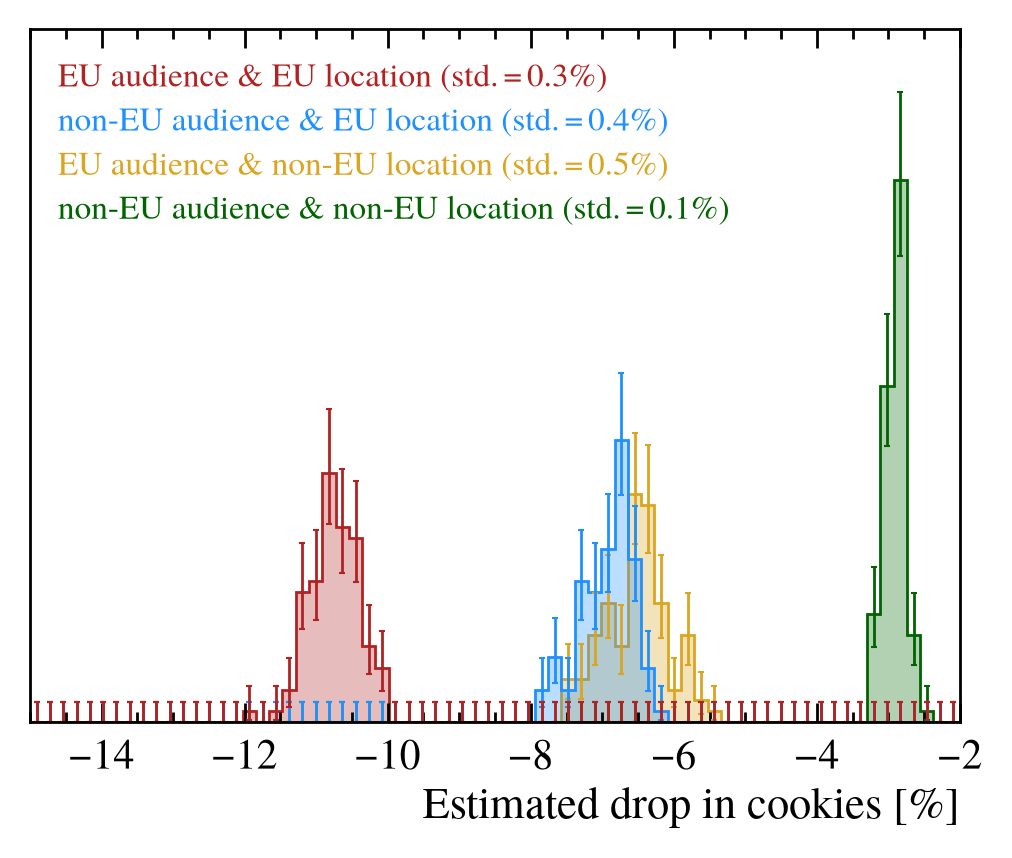
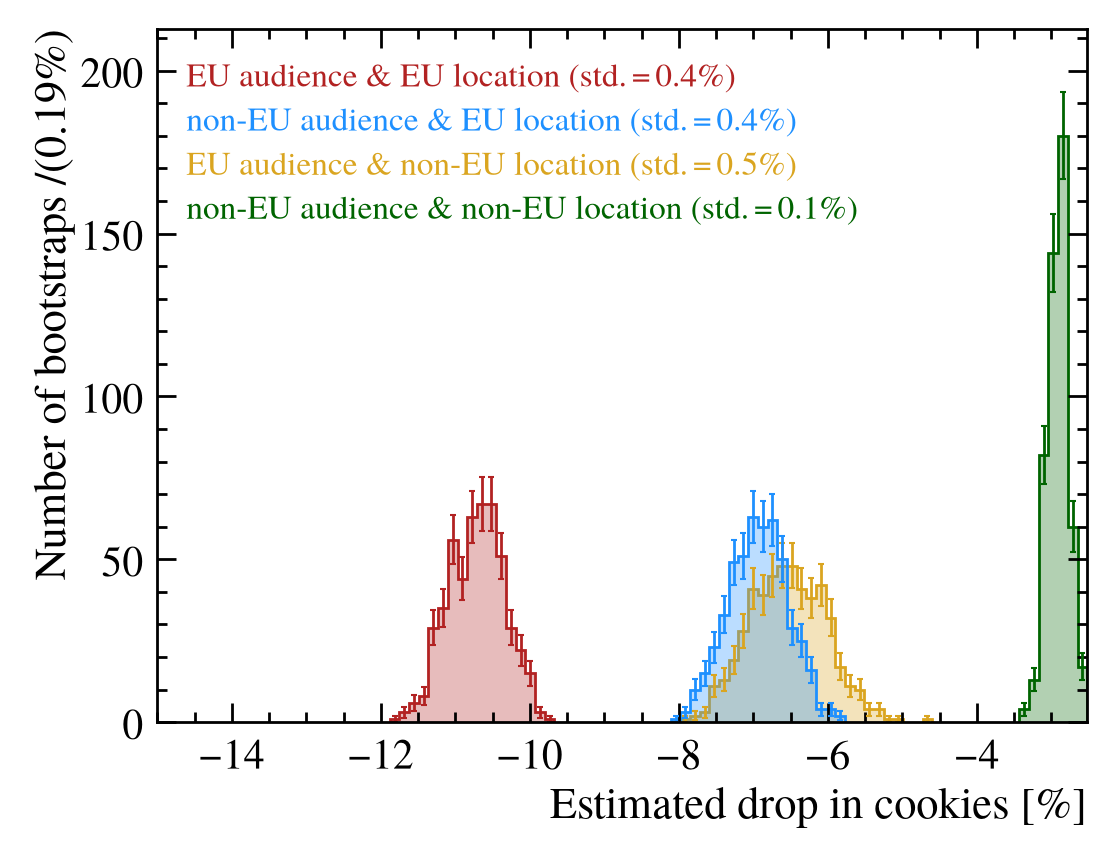
first commit

Changed region(s): [[0.0306, 0.0303, 0.9802, 0.9697], [0.8577, 0.0303, 0.8883, 0.0606], [0.7352, 0.0303, 0.7658, 0.0606]]

diff --git a/README.md b/README.md
@@ -14,15 +14,15 @@ It started from the code published [in this accompanying repository](plots_reque
 
 ## Background
 The General Data Protection Regulation (GDPR) is an EU legal framework protecting consumers from excessive data collection. It went into effect on May 25th 2018. It impacts in particular the online space. Importantly, it has global reach as it protects all users located within the EU regardless of a website's location AND applies to all websites within the EU regardless of the user's location. When analysing the impact of the GDPR, there are four distinct categories:
-1. <span style="color:firebrick">EU audience and EU location</span>
-2. <span style="color:dodgerblue">non-EU audience and EU location</span>
-3. <span style="color:goldenrod">EU audience and non-EU location</span>
-4. <span style="color:darkgreen">non-EU audience and non-EU location</span>
+1. <span style="color:firebrick">EU audience & EU location</span>
+2. <span style="color:dodgerblue">non-EU audience & EU location</span>
+3. <span style="color:goldenrod">EU audience & non-EU location</span>
+4. <span style="color:darkgreen">non-EU audience & non-EU location</span>
 
 The GDPR applies directly in categories 1-3. Due to the global nature of the internet and the large economic power of the EU, regulatory spillover effects into <span style="color:darkgreen">category 4</span> are possible and are examined in the following using visualization and three different quantitative methods.
 
 ## Visualization
-The two figures below show the trends of (left) the logarithm of the number of third-party requests plus 1 and (right) the logarithm of the number of third-party cookies plus 1 from May 2017 to November 2018 for each of the four categories. In order to facilitate the visual comparison, each category is scaled such that the average value from January 2018 to May 2018 equals one. The EU GDPR became effective on the 25th of May 2018, marked using a vertical solid line. A purely visual inspection shows similar trends for the growth in number of third-party requests and cookies for the four categories throughout the considered timespan with a clear interruption around mid 2018. This drop is largest in <span style="color:firebrick">category 1 (EU audience and EU location)</span> and least notable in <span style="color:darkgreen">category 4 (non-EU audience and non-EU location)</span>.
+The two figures below show the trends of (left) the logarithm of the number of third-party requests plus 1 and (right) the logarithm of the number of third-party cookies plus 1 from May 2017 to November 2018 for each of the four categories. In order to facilitate the visual comparison, each category is scaled such that the average value from January 2018 to May 2018 equals one. The EU GDPR became effective on the 25th of May 2018, marked using a vertical solid line. A purely visual inspection shows similar trends for the growth in number of third-party requests and cookies for the four categories throughout the considered timespan with a clear interruption around mid 2018. This drop is largest in <span style="color:firebrick">category 1 (EU audience & EU location)</span> and least notable in <span style="color:darkgreen">category 4 (non-EU audience & non-EU location)</span>.
 
 There are two additional interesting features mainly visible for the number of third-party cookies. First, a gradual increase between two more moderate eras during the fall of 2017. This is possibly a reflection of the seasonal release of new tech and a pre-holiday ramp-up in ads which is hard to verify given the data set only includes two fall seasons. Second, a drop in the number of third-party cookies during fall 2018. This coincides with new releases for the Safari and Firefox browsers that introduced much stricter tracking protections compared to their predecessors.
 Number of third-party requests | Number of third-party cookies
@@ -38,13 +38,13 @@ A very simple way to determine the magnitude of the drop is to simply calculate 
 **Regression Discontinuity Design**
 Regression discontinuity analysis considers several points in a window before and after the event to estimate the drop. The trend pre and post the event are determined independently through a linear or quadratic fit to the data points within a range right before and after. The change due to the treatment is the difference between the two functions at the treatment date. The size of the window has significant impact on the computed values. The figures below show a scan of different windows for (left) the number of requests and (right) the number of cookies. The bold data points correspond to fitting a linear function while the slightly transparent data points correspond to fitting a quadratic function. Note that the minimum window size is 30 days (40 days) for the linear (quadratic) function because the minimum number of data points to determine all parameters of a linear (quadratic) function is two (three) and the data points only appear on the 1st and 15th of every month.
 For some categories, the magnitude of the drop increases with window size. However, it is preferrable to stick to a smaller window to avoid including unrelated events far before or after the treatment. For most variables, the difference between a linear and quadratic function is small. As a consequence, the nominal window size is chosen to be 70, corresponding to at least four data points in each fit.
-Number of requests | Number of cookies
+Number of third-party requests | Number of third-party cookies
 :---:|:---:
 ![IMAGE](plots_requests/RDD_window.png) | ![IMAGE](plots_cookies/RDD_window.png)
 
 
 **Differences in Differences**
-The impact on the EU audience can be estimated by comparing it to the change in requests and cookies for the non-EU audience. And similarly for the EU location. To this end, the trend before and after the GDPR introduction is fitted in both groups simultaneously while accounting for common effects. The tool used for these fits is PanelOLS from the python package linearmodels. As a cross check, this fit is performed comparing the EU audience and non-EU audience groups, the EU location and non-EU location groups, and all four categories at once. The numerical values obtained for the drops are identical between the three tests which indicates that the problem is saturated, i.e. there is enough data to unambiguously determine all parameters. 
+The impact on the EU audience can be estimated by comparing it to the change in requests and cookies for the non-EU audience. And similarly for the EU location. To this end, the trend before and after the GDPR introduction is fitted in both groups simultaneously while accounting for common effects. The tool used for these fits is PanelOLS from the python package linearmodels. As a cross check, this fit is performed comparing the EU audience & non-EU audience groups, the EU location and non-EU location groups, and all four categories at once. The numerical values obtained for the drops are identical between the three tests which indicates that the problem is saturated, i.e. there is enough data to unambiguously determine all parameters. 
 
 ## Results
 The following figures represent different aspects of the numerical analysis.
@@ -69,27 +69,27 @@ Ad-hoc | RDD | DiD
 
 
 ## Discussion
-All four categories experience a significant drop in the number of third-party requests and cookies coinciding when the GDPR came into effect. The impact is largest in <span style="color:firebrick">category 1 (EU audience and EU location)</span> and lowest in <span style="color:darkgreen">category 4 (non-EU audience and non-EU location)</span>. The mixed categories <span style="color:goldenrod">2 (EU audience and non-EU location)</span> and <span style="color:dodgerblue">3 (non-EU audience and EU location)</span> are affected by a similar moderate amount. Nevertheless, even the least affected category experiences a statistically significant drop. The $p$-value for the significance of the drop in requests or cookies, using any of the three methods, is $p<0.002$ when estimated using the number of bootstraps resulting in a drop above 0. Note that this number is limited by running only 500 bootstraps. Out of the three methods and two metrics, the largest $p$-value estimated using on the mean and standard deviation and assuming a Gaussian distribution is of order $p\approx \mathcal{O}(10^{-25})$.
+All four categories experience a significant drop in the number of third-party requests and cookies coinciding when the GDPR came into effect. The impact is largest in <span style="color:firebrick">category 1 (EU audience & EU location)</span> and lowest in <span style="color:darkgreen">category 4 (non-EU audience & non-EU location)</span>. The mixed categories <span style="color:goldenrod">2 (EU audience & non-EU location)</span> and <span style="color:dodgerblue">3 (non-EU audience & EU location)</span> are affected by a similar moderate amount. Nevertheless, even the least affected category experiences a statistically significant drop. The $p$-value for the significance of the drop in requests or cookies, using any of the three methods, is $p<0.002$ when estimated using the number of bootstraps resulting in a drop above 0. Note that this number is limited by running only 500 bootstraps. Out of the three methods and two metrics, the largest $p$-value estimated using on the mean and standard deviation and assuming a Gaussian distribution is of order $p\approx \mathcal{O}(10^{-25})$.
 
 The values estimated by the ad-hoc and RDD methods are very similar while the DiD values deviate slightly. When considering the number of requests, the DiD method results more extreme values than the other two methods. This is likely due to including the steeper than average slopes during October 2017 and 2018. When considering the number of third-party cookies, the DiD method estimates values that are less extreme. This might be due to including the second drop in fall 2018 which decreases the overall slope of the trend after the GDPR introduction date. Generously removing the holiday season and only considering data collected between January 2018 and August 2018, including, moves the DiD estimates closer to the other estimates. While the difference is significantly reduced for all cases, it is not always eliminated. A further reduction of the range to the windows used in the RDD estimate (70 days before and after the GDPR effective date), moves the DiD estimates even closer to the other two estimates. The numerical values are shown in the tables below. Interestingly, the DiD estimates in the most narrow window sit mostly either between the ad-hoc and RDD estimates or are less extreme. The DiD method considers all categories at accounting for parallel effects. As a consequence, it is possible that these less extreme values are closer to the truth as the other two methods are blind to such global effects.
 
 These numerical results and checks emphasize the suspicion that EU legislation can have significant impact on individuals outside the immediate jurisdiction. In the case of the GDPR, there are statistically significant and robust spillover effects improving data protection for individuals outside the EU accessing websites located outside the EU.
 
 **Third-party requests**
-Category | DiD (full range) | DiD (2018 Jan-Aug) | DiD (GDPR +/-70 days) | Ad-hoc | RDD
+Category | DiD (full range) | DiD (2018 Jan-Aug) | DiD (GDPR +/-70 days) | Ad-hoc | RDD     
 :---:|:---:|:---:|:---:|:---:|:---:
-<span style="color:firebrick">EU audience and EU location</span> | $-7.9\%$ | $-7.1\%$ | $-6.5\%$ | $-6.9\%$ | $-6.9\%$
-<span style="color:dodgerblue">non-EU audience and EU location</span> | $-4.6\%$ | $-3.8\%$ | $-3.0\%$ | $-3.9\%$ | $-3.9\%$
-<span style="color:goldenrod">EU audience and non-EU location</span> | $-5.1\%$ | $-3.6\%$ | $-3.6\%$ | $-3.2\%$ | $-3.3\%$
-<span style="color:darkgreen">non-EU audience and non-EU location</span> | $-2.2\%$ | $-1.3\%$ | $-1.2\%$ | $-1.3\%$ | $-1.1\%$
+<span style="color:firebrick">EU audience & EU location</span> | $-7.9\%$ | $-7.1\%$ | $-6.5\%$ | $-6.9\%$ | $-6.9\%$
+<span style="color:dodgerblue">non-EU audience & EU location</span> | $-4.6\%$ | $-3.8\%$ | $-3.0\%$ | $-3.9\%$ | $-3.9\%$
+<span style="color:goldenrod">EU audience & non-EU location</span> | $-5.1\%$ | $-3.6\%$ | $-3.6\%$ | $-3.2\%$ | $-3.3\%$
+<span style="color:darkgreen">non-EU audience & non-EU location</span> | $-2.2\%$ | $-1.3\%$ | $-1.2\%$ | $-1.3\%$ | $-1.1\%$
 
 **Third-party cookies**
-Category | DiD (full range) | DiD (2018 Jan-Aug) | DiD (GDPR +/-70 days) | Ad-hoc | RDD
+Category | DiD (full range) | DiD (2018 Jan-Aug) | DiD (GDPR +/-70 days) | Ad-hoc | RDD     
 :---:|:---:|:---:|:---:|:---:|:---:
-<span style="color:firebrick">EU audience and EU location</span> | $-13.3\%$ | $-13.6\%$ | $-10.7\%$ | $-11.4\%$ | $-10.8\%$
-<span style="color:dodgerblue">non-EU audience and EU location</span> | $-9.4\%$ | $-9.3\%$ | $-6.9\%$ | $-7.7\%$ | $-6.3\%$
-<span style="color:goldenrod">EU audience and non-EU location</span> | $-7.6\%$ | $-8.0\%$ | $-6.5\%$ | $-6.9\%$ | $-6.9\%$
-<span style="color:darkgreen">non-EU audience and non-EU location</span> | $-4.6\%$ | $-4.4\%$ | $-2.9\%$ | $-4.0\%$ | $-3.6\%$
+<span style="color:firebrick">EU audience & EU location</span> | $-13.3\%$ | $-13.6\%$ | $-10.7\%$ | $-11.4\%$ | $-10.8\%$
+<span style="color:dodgerblue">non-EU audience & EU location</span> | $-9.4\%$ | $-9.3\%$ | $-6.9\%$ | $-7.7\%$ | $-6.3\%$
+<span style="color:goldenrod">EU audience & non-EU location</span> | $-7.6\%$ | $-8.0\%$ | $-6.5\%$ | $-6.9\%$ | $-6.9\%$
+<span style="color:darkgreen">non-EU audience & non-EU location</span> | $-4.6\%$ | $-4.4\%$ | $-2.9\%$ | $-4.0\%$ | $-3.6\%$
 ## Reproducibility
 ```
 conda create -n gdpr314 python=3.14
